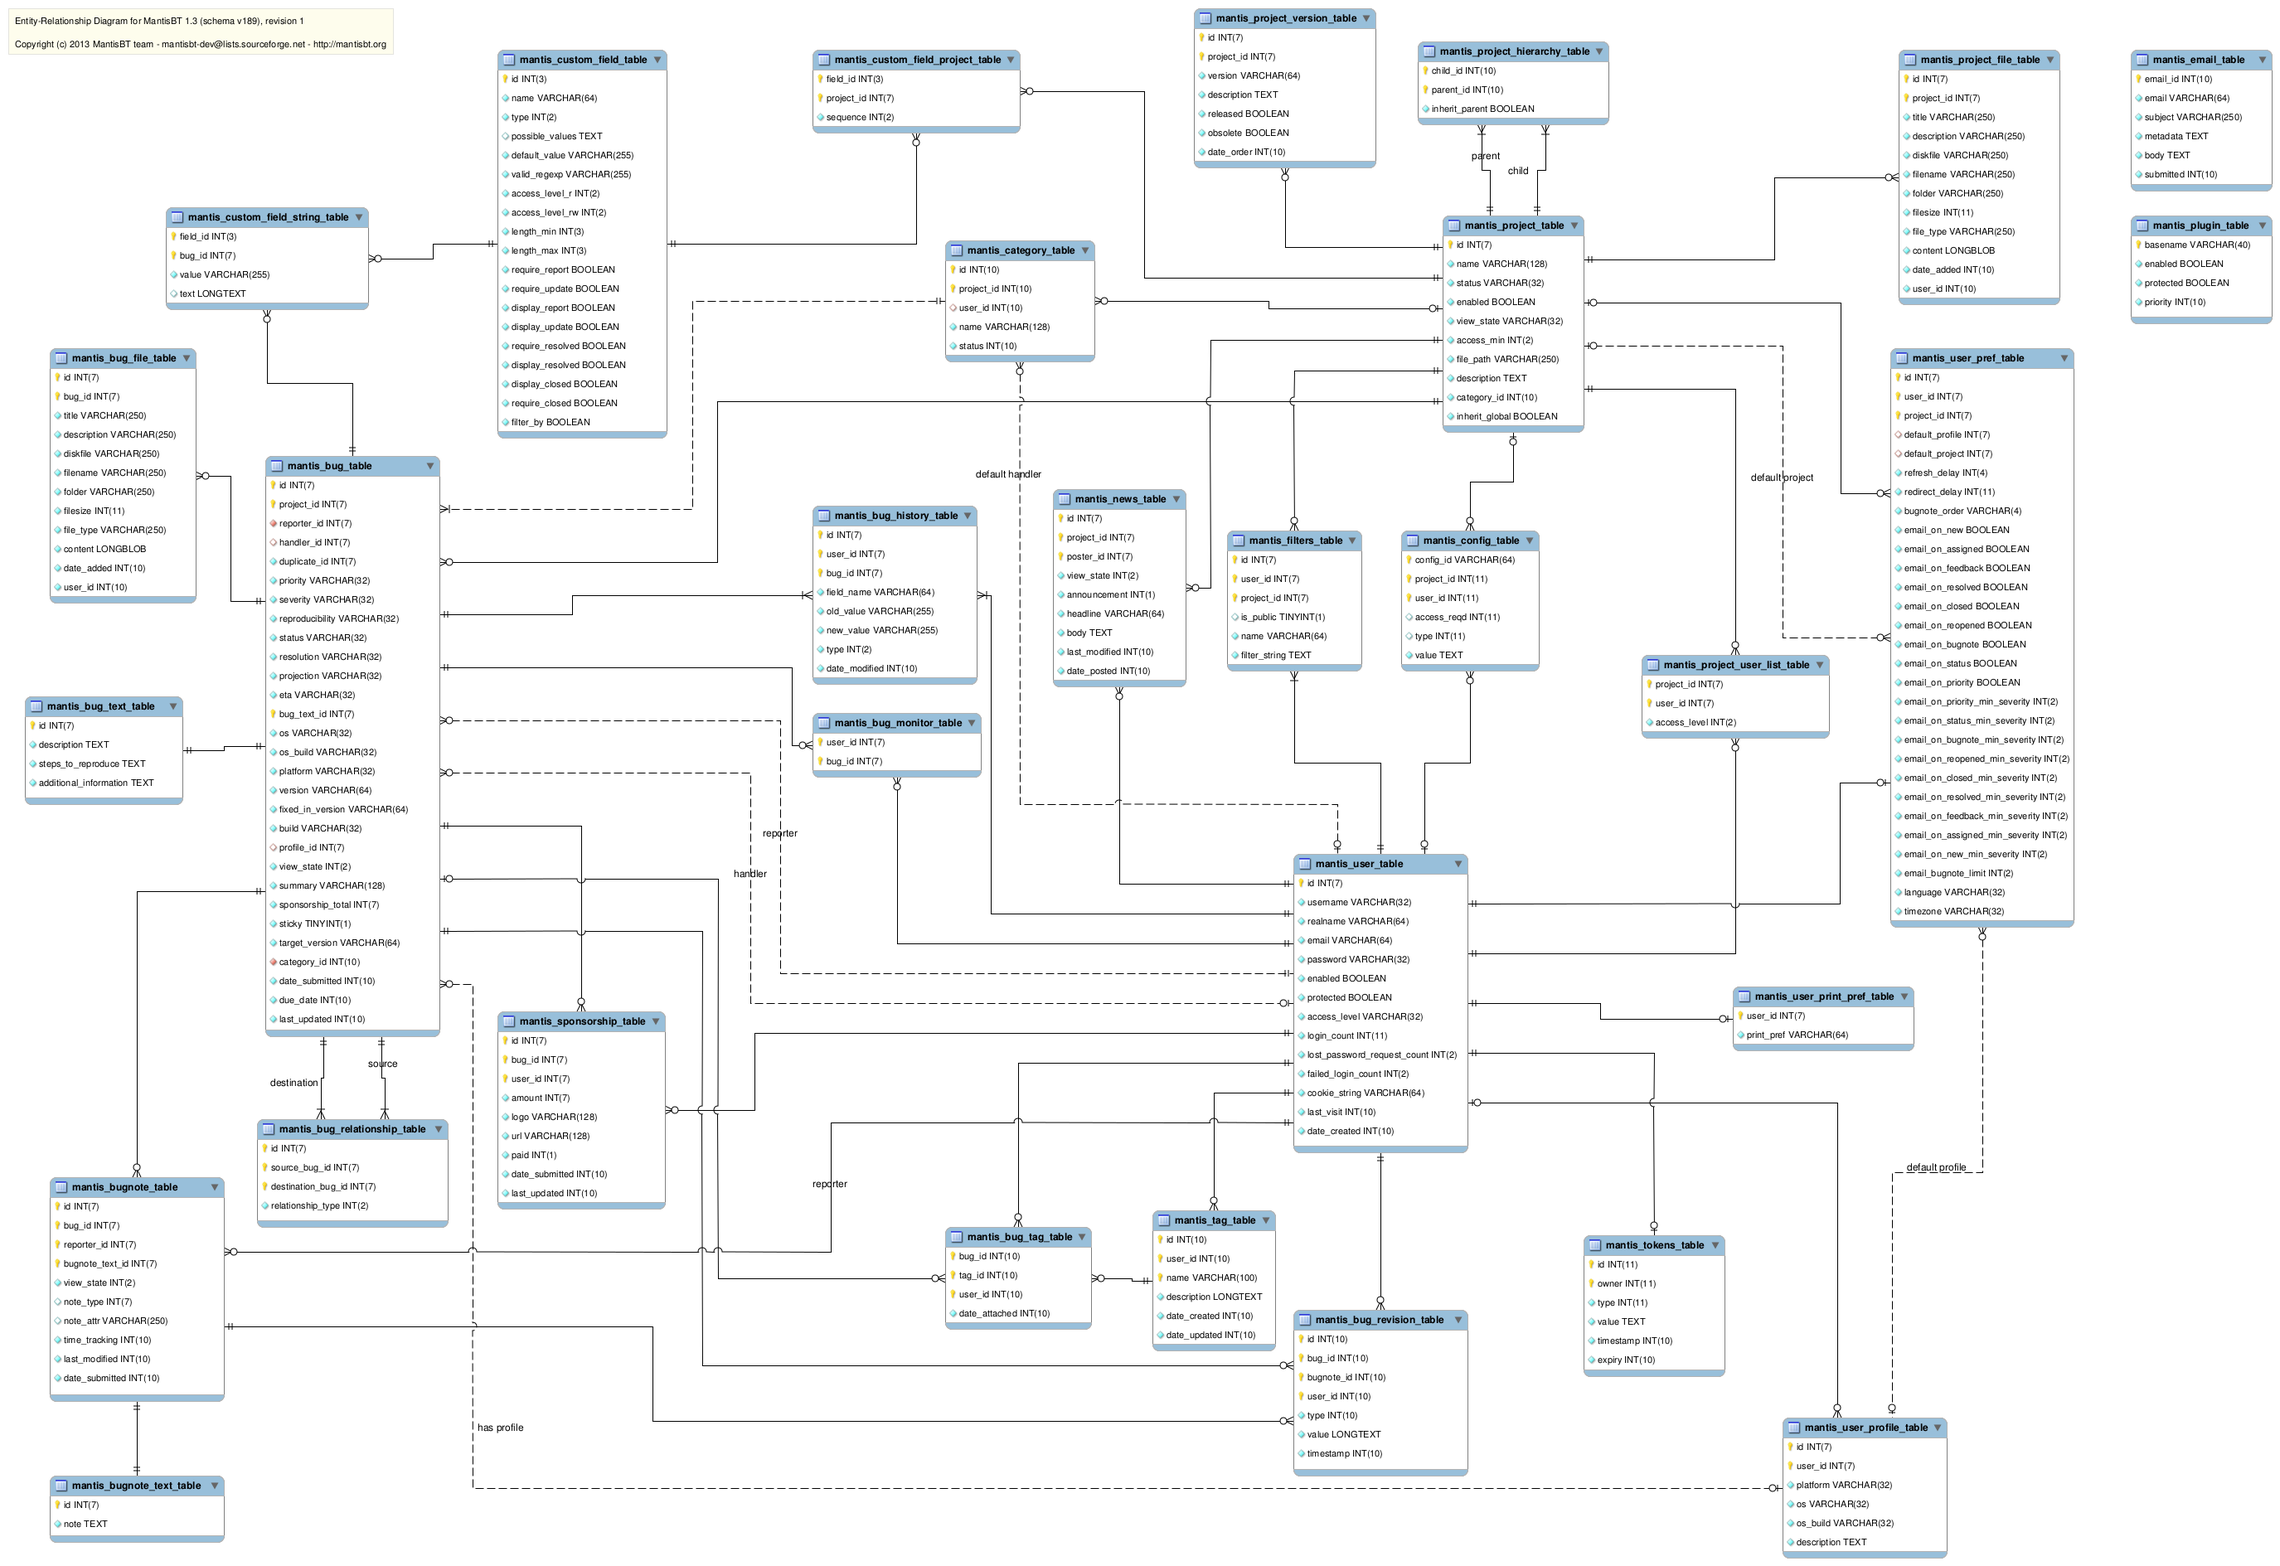
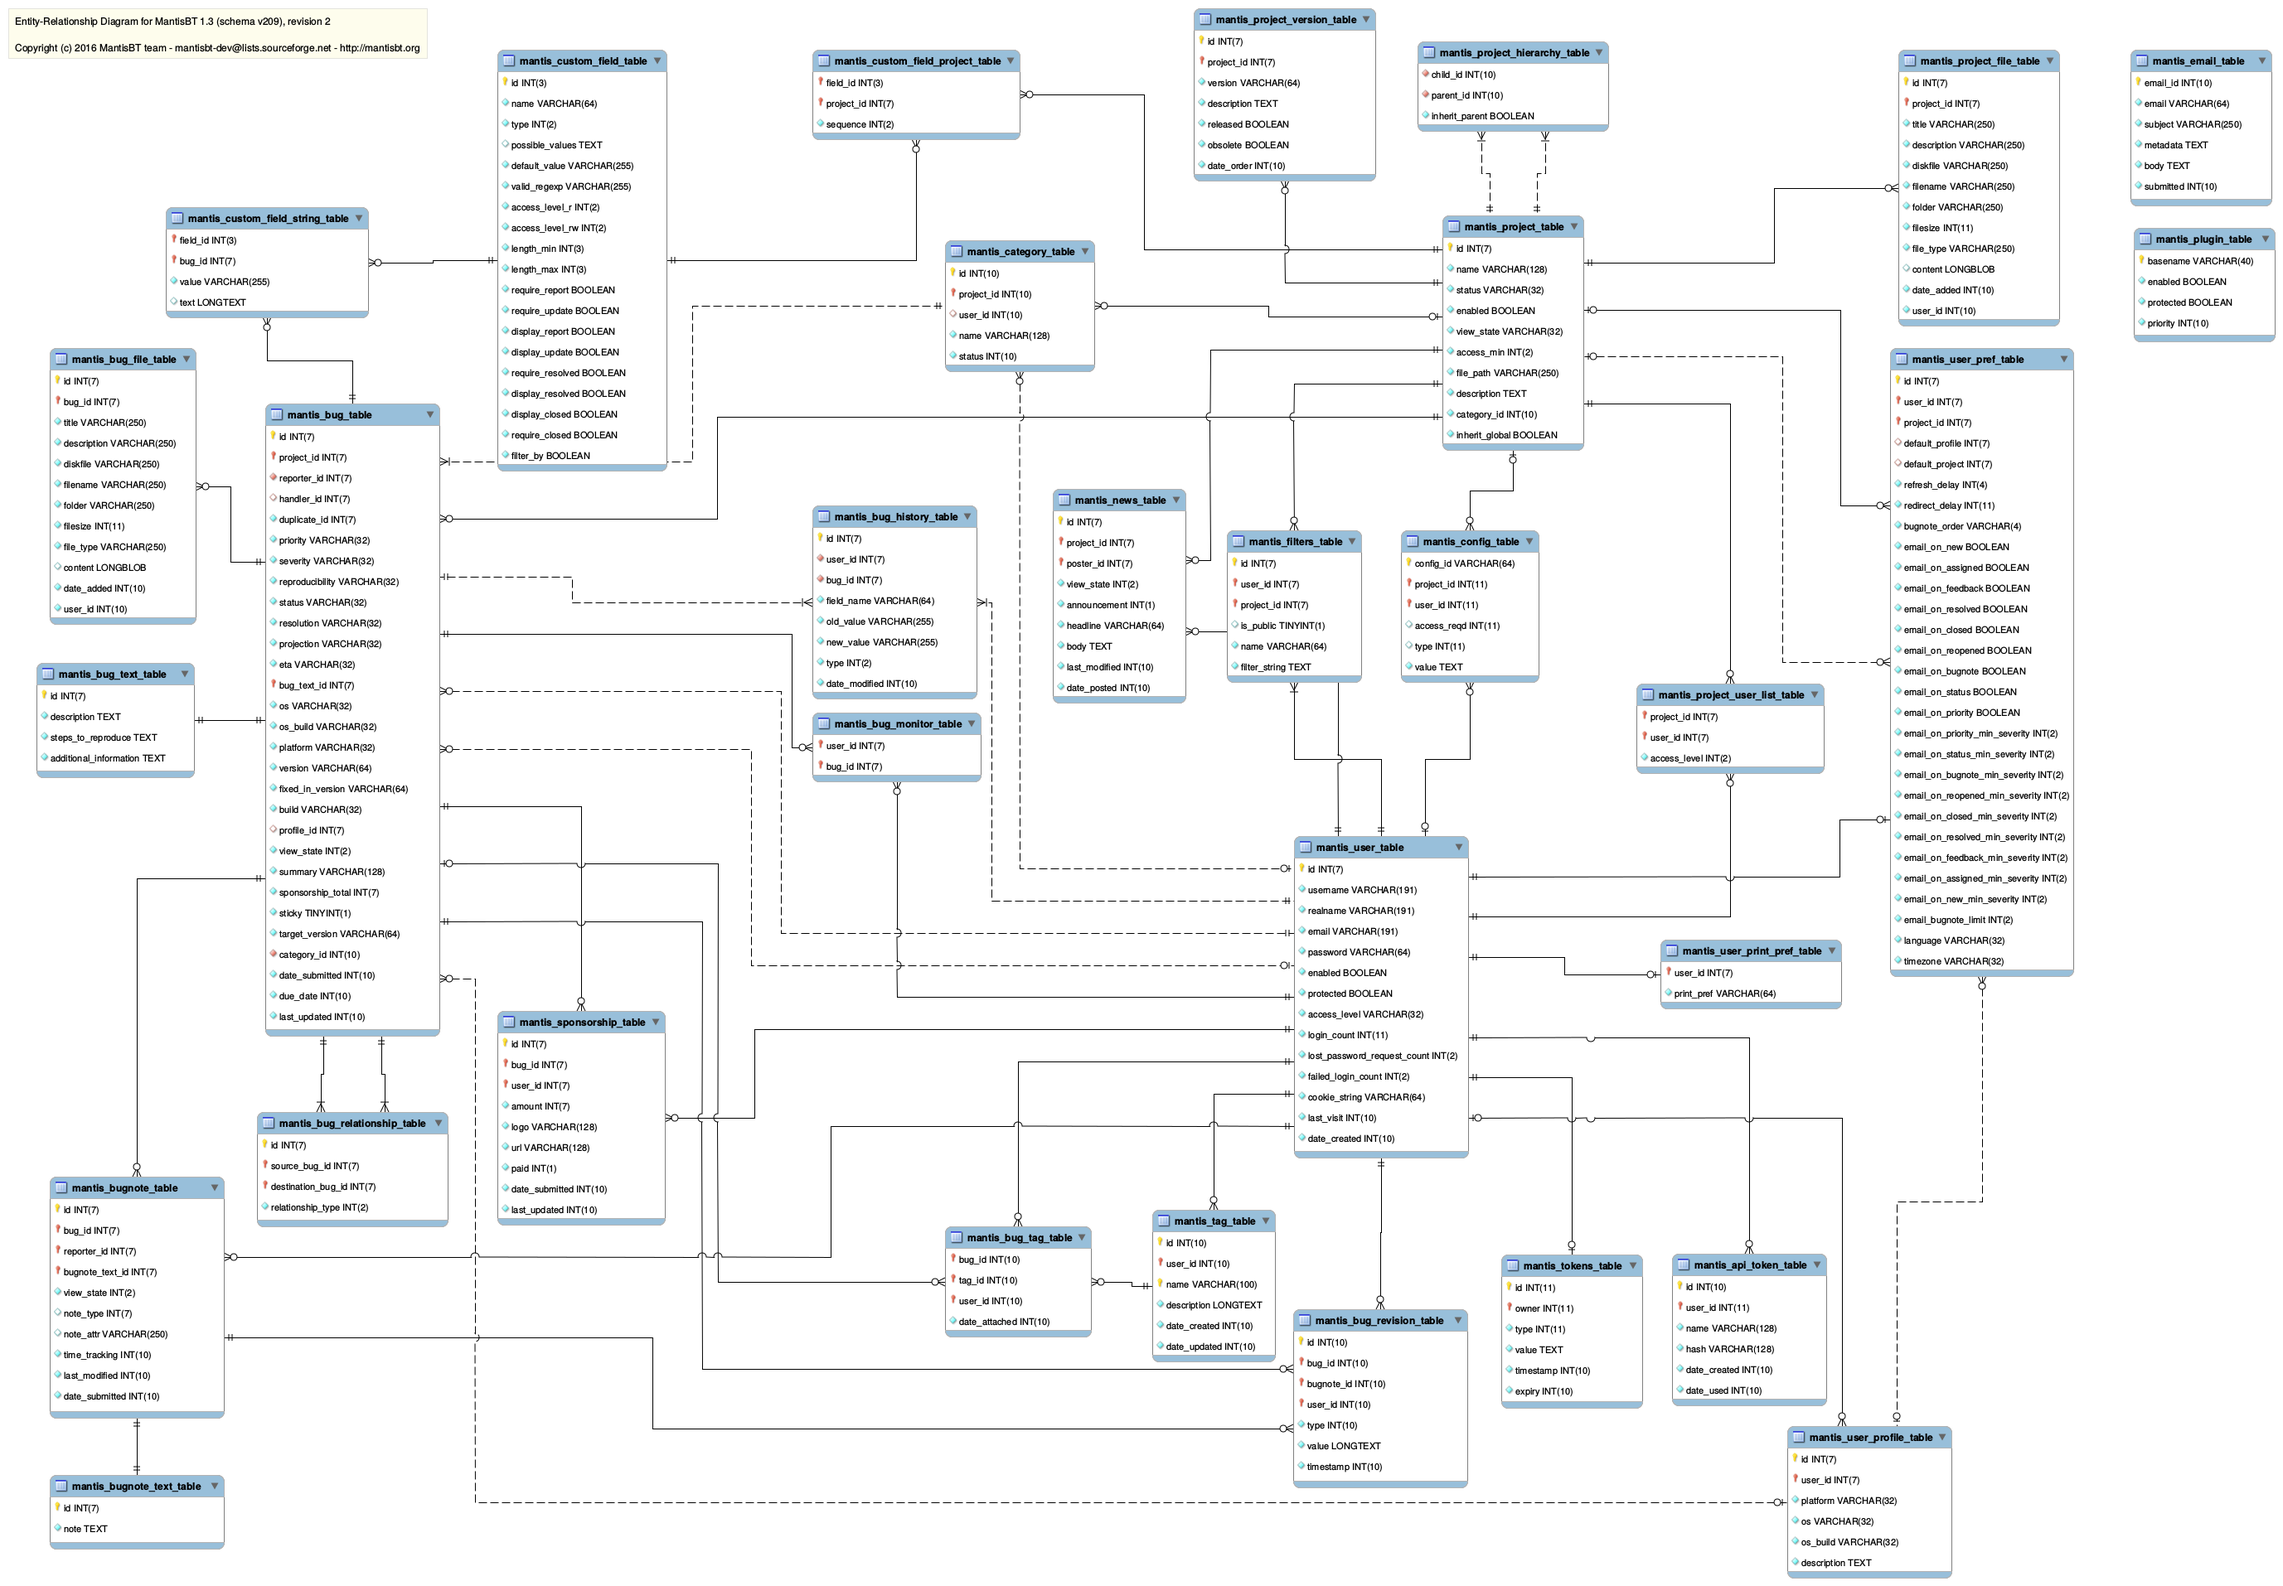
Update ERD diagram to schema 209
- Reflect changes since schema 189
- Update MySQLWorkbench version in README file
- Updated image for Developer's guide

Fixes #21082

diff --git a/docbook/erd/README.md b/docbook/erd/README.md
@@ -1,7 +1,7 @@
 The MantisBT Entity-Relationship Diagram
 ========================================
 
-The diagram was built using MySQL Workbench [1] version 5.2.40. The MantisBT
+The diagram was built using MySQL Workbench [1] version 6.3.6. The MantisBT
 schema was reverse-engineered based on a freshly installed database, then the
 relationships between tables and corresponding cardinalities were manually
 added.
